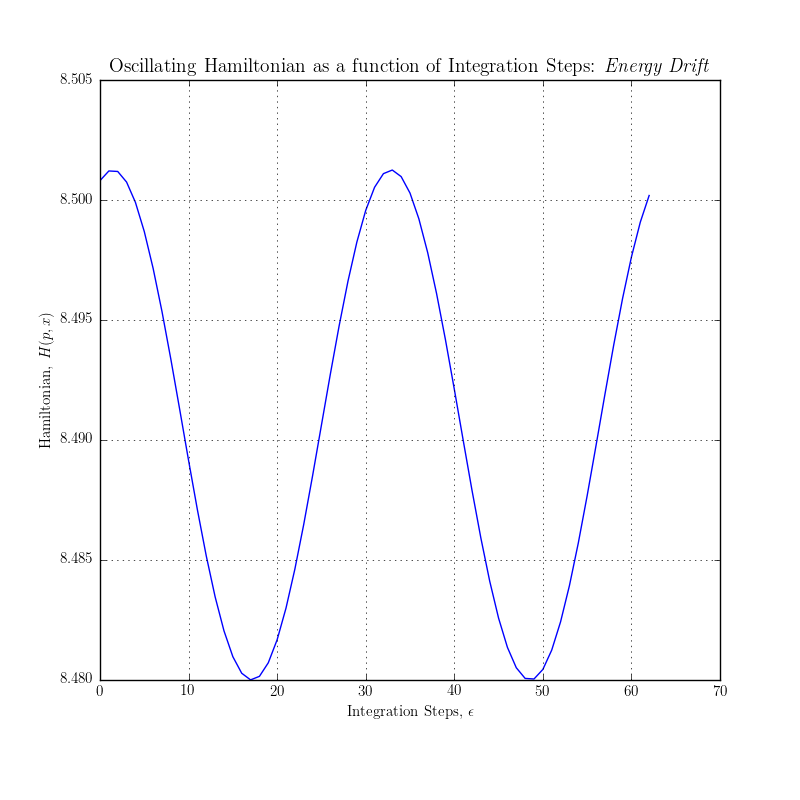
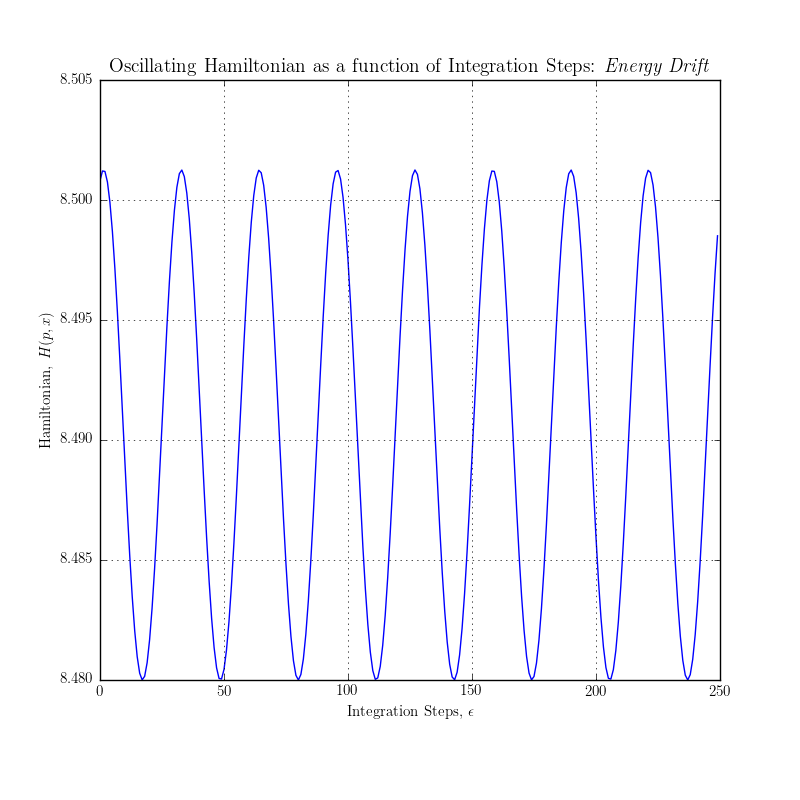
first HMC sampler draft

diff --git a/hmc/hmc.py b/hmc/hmc.py
@@ -9,20 +9,24 @@ class Hybrid_Monte_Carlo(object):
         
     
     Required Inputs
+        store_path  :: bool :: Store path for plotting
         # x0         :: tuple :: initial starting position vector
         # potential  :: class :: class from potentials.py
         # dynamics :: class :: integrator class for dynamics from h_dynamics.py
     Expectations
     """
-    def __init__(self):
+    def __init__(self, store_path=False):
+        self.store_path = store_path
         
         # These can be made into inputs
         self.x0 = np.asarray([[0.],[0.]]) # start at 0,0 by default
         self.rng = np.random.RandomState(1234)
         
         self.potential = Simple_Harmonic_Oscillator()
-        self.dynamics = Leap_Frog(duE=self.potential.duE, d=0.3, l = 20)
-        self.momentum = self.Momentum(self.rng)
+        self.dynamics = Leap_Frog(duE = self.potential.duE,
+            step_size = 0.3, n_steps = 20)
+        self.momentum = Momentum(self.rng)
+        self.accept = Accept_Reject(self.rng)
         # end inputs
         
         self.x = self.x0
@@ -42,14 +46,27 @@ class Hybrid_Monte_Carlo(object):
             self.p, self.x
             self.dynamics.integrate
             self.momentum.fullRefresh
+        
+        Returns
+            (p,x) :: (float, float) :: new momentum and position
         """
+        
         p,x = self.p,self.x # initial temp. proposal p,x
+        h_old = self.potential.hamiltonian(p, x)
+        
         p = -self.momentum.fullRefresh(p) # mixing matrix adds a flip
+        
+        if (step_size is not None): self.dynamics.step_size = step_size
+        if (n_steps is not None): self.dynamics.n_steps = step_size
+        
         p, x = self.dynamics.integrate(p, x)
         # p = self.momentum.flip(p) # not necessary as full refreshment
+        h_new = self.potential.hamiltonian(p, x)
         
-        accept = 
-        pass
+        accept = self.accept.metropolisHastings(h_old=h_old, h_new=h_new)
+        if not accept: p, x = self.p, self.x
+        
+        return p,x
     
     def moveGHMC(self, mixing_angle):
         """A generalised Hybrid Monte Carlo move:
@@ -60,10 +77,47 @@ class Hybrid_Monte_Carlo(object):
         """
         pass
     
-    def test():
+    def test(self):
         """A test to sample the Bivariate Normal Distribution"""
         pass
+#
+class Accept_Reject(object):
+    """Contains accept-reject routines
     
+    Required Inputs
+        rng :: np.random.RandomState :: random number generator
+    """
+    def __init__(self, rng):
+        self.rng = rng
+        pass
+    def metropolisHastings(self, h_old, h_new):
+        """A M-H accept/reject test as per
+        Duane, Kennedy, Pendleton (1987)
+        and also used by Neal (2003)
+        
+        The following, 
+            min(1., np.exp(-delta_h)) - self.rng.uniform() >= 0.
+            (np.exp(-delta_h) - self.rng.uniform()) >= 0
+        
+        are equivalent to the original step:
+            self.rng.uniform() < min(1., np.exp(-delta_h))
+        
+        The min() function need not be evaluated as both
+        the resultant 1. a huge +ve number will both result
+        in acceptance.
+        >= is also introduced for OCD reasons.
+        
+        Required Inputs
+            h_old :: float :: old hamiltonian
+            h_new :: float :: new hamiltonian
+        
+        Return :: bool
+            True    :: acceptance
+            False   :: rejection
+        """
+        delta_h = h_new - h_old
+        # (self.rng.uniform() < min(1., np.exp(-delta_h))) # Neal / DKP original
+        return (np.exp(-delta_h) - self.rng.uniform()) >= 0 # faster
 #
 class Momentum(object):
     """Momentum Routines
@@ -232,5 +286,7 @@ class Momentum(object):
 #
 if __name__ == '__main__':
     rng = np.random.RandomState(1234)
-    m = Momentum(rng)
-    print 'Momentum Test:', m.test(print_out=True)
+    # m = Momentum(rng)
+    # print 'Momentum Test:', m.test(print_out=True)
+    hmc = Hybrid_Monte_Carlo()
+    hmc.test()

diff --git a/hmc/h_dynamics.py b/hmc/h_dynamics.py
@@ -13,14 +13,14 @@ class Leap_Frog(object):
         duE  :: func :: Gradient of Potential Energy
     
     Optional Inputs
-        d   :: integration step length
-        lf  :: leap frog integration steps (trajectory length)
+        d   :: integration step size
+        l  :: leap frog integration steps (trajectory length)
     
     Note: Do not confuse x0,p0 with initial x0,p0 for HD
     """
-    def __init__(self, duE, d=0.1, l = 250, save_path=False):
-        self.d = d
-        self.l = l
+    def __init__(self, duE, step_size=0.1, n_steps=250, save_path=False):
+        self.step_size = step_size
+        self.n_steps = n_steps
         self.duE = duE
         
         self.save_path = save_path
@@ -44,7 +44,7 @@ class Leap_Frog(object):
             (x,p) :: tuple :: momentum, position
         """
         self.p, self.x = p0,x0
-        for step in xrange(0, self.l):
+        for step in xrange(0, self.n_steps):
             self._moveP(frac_step=0.5)
             self._moveX()
             self._moveP(frac_step=0.5)
@@ -73,7 +73,7 @@ class Leap_Frog(object):
         self._moveX()
         if self.save_path: self._storeSteps() # store moves
         
-        for step in xrange(1, self.lf):
+        for step in xrange(1, self.n_steps):
             self._moveP()
             self._moveX()
             if self.save_path: self._storeSteps() # store moves
@@ -89,7 +89,7 @@ class Leap_Frog(object):
             p :: float :: current momentum
             x :: float :: current position
         """
-        self.x += frac_step*self.d*self.p
+        self.x += frac_step*self.step_size*self.p
         pass
     
     def _moveP(self, frac_step=1.):
@@ -99,7 +99,7 @@ class Leap_Frog(object):
             p :: float :: current momentum
             x :: float :: current position
         """
-        self.p -= frac_step*self.d*self.duE(self.x)
+        self.p -= frac_step*self.step_size*self.duE(self.x)
         pass
     def _storeSteps(self):
         """Stores current momentum and position in lists
@@ -147,7 +147,7 @@ class Test_Hamiltonian_Dynamics(object):
         prefix = 'https://'
         self.blog = 'TheCleverMachine.wordpress.com'
         url_path = '/2012/11/18/mcmc-hamiltonian-monte-carlo-a-k-a-hybrid-monte-carlo/'
-        self.ref = prefix+self.blog+url_path
+        self.ref = prefix + self.blog + url_path
         
         self.potential = potential
         self.kE, self.uE = self.potential.kE, self.potential.uE
@@ -366,28 +366,30 @@ class Test_Hamiltonian_Dynamics(object):
 if __name__ == '__main__': # demo if run directly
     
     pot = Simple_Harmonic_Oscillator(k=1.)
-    lf = Leap_Frog(duE=pot.duE, d=0.1, 
-        l = 63,
-        # l=250, 
-        save_path=True
+    lf = Leap_Frog(
+        duE = pot.duE,
+        step_size = 0.1,
+        # n_steps = 63,
+        n_steps = 250, 
+        save_path = True
         )
     
     test = Test_Hamiltonian_Dynamics(
-        p0=1., x0=4.,
-        dynamics=lf,
-        potential=pot
+        p0 = 1., x0 = 4.,
+        dynamics = lf,
+        potential = pot
         )
     
     test.run() # run dynamics
     
     test.energy_drift( # show energy drift
         # save=False,
-        p_ar=test.dynamics.p_ar,
-        x_ar=test.dynamics.x_ar
+        p_ar = test.dynamics.p_ar,
+        x_ar = test.dynamics.x_ar
         )
     
     test.full_anim( # animated demo
         # save=False,
-        p_ar=test.dynamics.p_ar,
-        x_ar=test.dynamics.x_ar
+        p_ar = test.dynamics.p_ar,
+        x_ar = test.dynamics.x_ar
         )

diff --git a/hmc/potentials.py b/hmc/potentials.py
@@ -1,5 +1,11 @@
 import numpy as np
 
+from mpl_toolkits.mplot3d import Axes3D
+from matplotlib import cm
+from matplotlib.ticker import LinearLocator, FormatStrFormatter
+import matplotlib.pyplot as plt
+from matplotlib import rcParams
+        
 class Simple_Harmonic_Oscillator(object):
     """Simple Harmonic Oscillator
     
@@ -26,6 +32,8 @@ class Simple_Harmonic_Oscillator(object):
         return p
     def gradPotentialEnergy(self, x):
         return self.k*x
+    def hamiltonian(self, p, x):
+        return self.kineticEnergy(p) + self.potentialEnergy(x)
 #
 class Multivariate_Gaussian(object):
     """Multivariate Gaussian Distribution
@@ -84,12 +92,9 @@ class Multivariate_Gaussian(object):
         """n-dim gradient"""
         assert len(x.shape) == 2
         return np.dot(self.cov_inv, x)
+    def hamiltonian(self, p, x):
+        return self.kineticEnergy(p) + self.potentialEnergy(x)
     def testPlot(self):
-        from mpl_toolkits.mplot3d import Axes3D
-        from matplotlib import cm
-        from matplotlib.ticker import LinearLocator, FormatStrFormatter
-        import matplotlib.pyplot as plt
-        from matplotlib import rcParams
         rcParams['text.usetex'] = True
         rcParams['text.latex.preamble'] = r'\usepackage{amsmath}'
         
